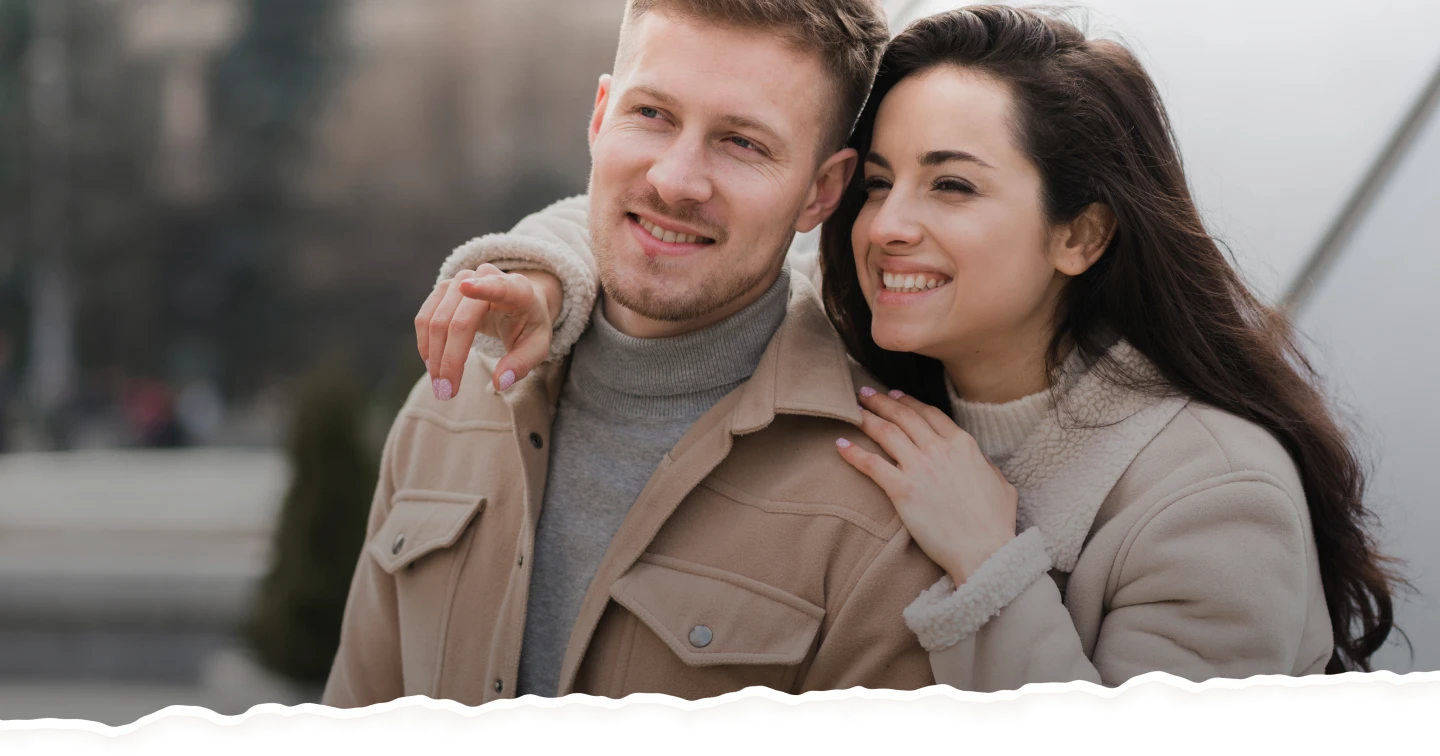
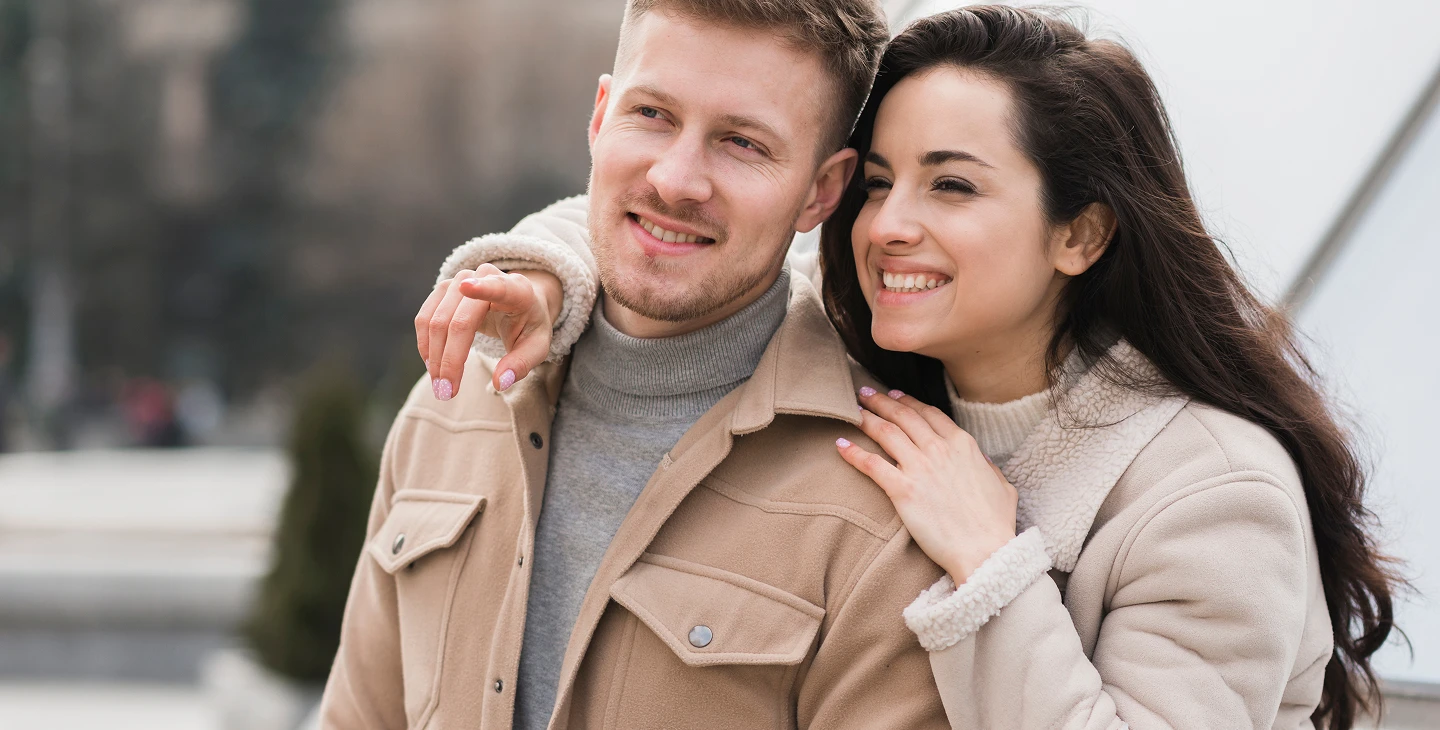
Add files via upload

diff --git a/css/style.css b/css/style.css
@@ -196,12 +196,53 @@ html {
   color: rgba(255,255,255,.8);
 }
 
+.hero__decor {
+  position: absolute;
+  width: 100%;
+  height: 100%;
+  bottom: -0.75rem;
+  left: 0;
+  z-index: -1;
+}
+
+.hero__decor img {
+  position: absolute;
+  width: 100%;
+  height: 100%;
+  top: 0;
+  left: 0;
+  -o-object-fit: cover;
+     object-fit: cover;
+  -o-object-position: bottom;
+     object-position: bottom;
+}
+
 .hero__image {
   position: absolute;
   width: 100%;
   height: 100%;
   top: 0;
   left: 0;
+  -webkit-mask-repeat: no-repeat;
+          mask-repeat: no-repeat;
+  -webkit-mask-image: url("../img/hero-mask.webp");
+          mask-image: url("../img/hero-mask.webp");
+  -webkit-mask-size: cover;
+          mask-size: cover;
+  -webkit-mask-position: bottom;
+          mask-position: bottom;
+}
+
+.hero__image::after {
+  content: "";
+  position: absolute;
+  width: 100%;
+  height: 100%;
+  top: 0;
+  left: 0;
+  pointer-events: none;
+  background: -webkit-gradient(linear, left top, left bottom, from(rgba(0, 0, 0, 0)), to(rgba(0, 0, 0, 0.4)));
+  background: linear-gradient(180deg, rgba(0, 0, 0, 0) 0%, rgba(0, 0, 0, 0.4) 100%);
 }
 
 .hero__image img,
@@ -623,6 +664,12 @@ html {
 .dress-code__image {
   position: relative;
   aspect-ratio: 247/120;
+  -webkit-mask-image: url("../img/color-mask.webp");
+          mask-image: url("../img/color-mask.webp");
+  -webkit-mask-size: 100% 100%;
+          mask-size: 100% 100%;
+  -webkit-mask-repeat: no-repeat;
+          mask-repeat: no-repeat;
 }
 
 .dress-code__image img {
@@ -1104,11 +1151,10 @@ html {
 }
 
 .contacts__items {
-  -ms-flex-item-align: start;
-      -ms-grid-row-align: start;
-      align-self: start;
   display: -ms-grid;
   display: grid;
+  -ms-grid-row-align: start;
+      align-self: start;
   gap: 0.9375rem;
   max-width: 31.625rem;
 }
@@ -1245,17 +1291,17 @@ html {
   z-index: 2;
   padding-top: 6.25rem;
   padding-bottom: 2.5rem;
-  margin-top: 6.25rem;
-   display: -webkit-box;
+  margin-top: 5rem;
+  display: -webkit-box;
   display: -ms-flexbox;
-display: flex;
--webkit-box-orient: vertical;
-    -webkit-box-direction: normal;
-        -ms-flex-direction: column;
-flex-direction: column;
--webkit-box-pack: end;
+  display: flex;
+  -webkit-box-orient: vertical;
+  -webkit-box-direction: normal;
+      -ms-flex-direction: column;
+          flex-direction: column;
+  -webkit-box-pack: end;
       -ms-flex-pack: end;
-justify-content: flex-end;
+          justify-content: flex-end;
 }
 
 .thanks__container {
@@ -1360,12 +1406,41 @@ justify-content: flex-end;
   color: rgba(255,255,255,.8);
 }
 
+.thanks__decor {
+  position: absolute;
+  width: 100%;
+  height: 100%;
+  top: -0.75rem;
+  left: 0;
+  z-index: -1;
+}
+
+.thanks__decor img {
+  position: absolute;
+  width: 100%;
+  height: 100%;
+  top: 0;
+  left: 0;
+  -o-object-fit: cover;
+     object-fit: cover;
+  -o-object-position: top;
+     object-position: top;
+}
+
 .thanks__image {
   position: absolute;
   width: 100%;
   height: 100%;
   top: 0;
   left: 0;
+  -webkit-mask-repeat: no-repeat;
+          mask-repeat: no-repeat;
+  -webkit-mask-image: url("../img/thanks-mask.webp");
+          mask-image: url("../img/thanks-mask.webp");
+  -webkit-mask-size: cover;
+          mask-size: cover;
+  -webkit-mask-position: top;
+          mask-position: top;
 }
 
 .thanks__image img {
@@ -1547,7 +1622,7 @@ justify-content: flex-end;
 
   .hero {
     aspect-ratio: 1200/1000;
-    padding-bottom: 10vw;
+    padding-bottom: 11vw;
   }
 
   .hero__title {
@@ -1879,7 +1954,7 @@ justify-content: flex-end;
 
   .hero {
     aspect-ratio: 360/400;
-    padding-bottom: 18vw;
+    padding-bottom: 14vw;
   }
 
   .hero__button {
@@ -1896,7 +1971,7 @@ justify-content: flex-end;
   }
 
   .about {
-    padding-top: 4.375rem;
+    padding-top: 2.5rem;
   }
 
   .storty {
@@ -2178,7 +2253,7 @@ justify-content: flex-end;
   .thanks {
     aspect-ratio: 360/450;
     padding-bottom: 3.125rem;
-    margin-top: 3.75rem;
+    margin-top: 3.125rem;
   }
 
   .thanks__title {
@@ -2203,6 +2278,11 @@ justify-content: flex-end;
     font-size: 0.9375rem;
   }
 
+  .thanks__image {
+    -webkit-mask-image: url("../img/thanks-mask.webp");
+            mask-image: url("../img/thanks-mask.webp");
+  }
+
   .checkbox__text {
     font-size: 0.9375rem;
   }
@@ -2214,8 +2294,8 @@ justify-content: flex-end;
 
 @media (max-width: 29.99875rem) {
   .hero {
-    padding-bottom: 25vw;
-    aspect-ratio: 360/711;
+    aspect-ratio: 360/700;
+    padding-bottom: 24vw;
   }
 
   .hero__title {

diff --git a/preview.html b/preview.html
@@ -10,20 +10,15 @@
 	<link rel="stylesheet" href="css/style.css">
 </head>
 
-<body style="margin: 0; padding: 0;">
-	<div style="padding-bottom: 15px; padding-left: 10px;padding-right: 10px;position: relative; display: flex; flex-direction: column;justify-content: flex-end;align-items: center; overflow: hidden; width: 100vw; height: 100vh; box-sizing: border-box; margin: 0 auto;" class="preview">
-		<button type="button" style="position: absolute; z-index: 2; top: 10px;right: 10px;border: 0; width: 32px; height: 32px; display: inline-flex; align-items: center; justify-content: center; background-color: #fff;" class="preview__button">
-			<svg width="18" height="13" viewBox="0 0 20 15" fill="none" xmlns="http://www.w3.org/2000/svg">
-				<path d="M7.84091 3.05444L4.8814 5.37111H1.74242V8.70444H4.8814L7.84091 11.0211V3.05444ZM4.25935 10.3711H0.871212C0.640152 10.3711 0.418556 10.2833 0.255172 10.127C0.0917881 9.97075 0 9.75879 0 9.53778V4.53778C0 4.31676 0.0917881 4.1048 0.255172 3.94852C0.418556 3.79224 0.640152 3.70444 0.871212 3.70444H4.25935L8.87155 0.0944448C8.93537 0.0444008 9.01273 0.0127253 9.09464 0.00310588C9.17655 -0.00651352 9.25962 0.00631897 9.3342 0.0401094C9.40878 0.0738999 9.47179 0.127258 9.51589 0.193972C9.56 0.260686 9.58339 0.338011 9.58333 0.416945V13.6586C9.58339 13.7375 9.56 13.8149 9.51589 13.8816C9.47179 13.9483 9.40878 14.0017 9.3342 14.0354C9.25962 14.0692 9.17655 14.0821 9.09464 14.0724C9.01273 14.0628 8.93537 14.0312 8.87155 13.9811L4.26023 10.3711H4.25935ZM16.0355 13.8161L14.8019 12.6361C15.6278 11.9332 16.2885 11.0708 16.7405 10.1059C17.1925 9.14087 17.4256 8.09519 17.4242 7.03778C17.4253 5.92619 17.1675 4.82832 16.6696 3.82392C16.1717 2.81952 15.4462 1.93381 14.5458 1.23111L15.7829 0.0477782C16.8444 0.9074 17.6971 1.97818 18.2816 3.18544C18.866 4.3927 19.168 5.70738 19.1667 7.03778C19.1667 9.72361 17.9592 12.1394 16.0355 13.8161ZM12.9488 10.8636L11.71 9.67861C12.1329 9.36753 12.4754 8.96756 12.7109 8.50964C12.9464 8.05172 13.0687 7.54811 13.0682 7.03778C13.0682 5.84611 12.4148 4.80028 11.4303 4.21111L12.684 3.01194C13.3439 3.47627 13.8802 4.08265 14.2497 4.78204C14.6191 5.48143 14.8113 6.25418 14.8106 7.03778C14.8106 8.57278 14.0875 9.94611 12.9488 10.8636Z" fill="#0D0D0C" />
-			</svg>
-		</button>
-		<h1 style="position: relative;z-index: 2;font-family: mak;font-weight: 300;font-size: 40px;line-height: 104%;letter-spacing: -0.01em;color: #fff; text-align: center; margin: 0;">Мария & Дмитрий</h1>
-		<div style="display: flex; align-items: center;gap: 5px; position: relative;z-index: 2;width: 100%;margin-top: 15px;">
-			<div style="font-family: inter;font-size: 15px;color: rgba(255, 255, 255, 0.8);">4 октября</div>
+<body style="margin: 0; padding: 0; background-color: #f0efeb;">
+	<div style="padding-bottom: 10px; padding-left: 30px;padding-right: 30px; padding-bottom: 50px; position: relative; display: flex; flex-direction: column;justify-content: flex-end;align-items: center; overflow: hidden; width: 250px; height: 350px; box-sizing: border-box; margin: 0 auto;" class="preview">
+		<h1 style="position: relative;z-index: 2;font-family: mak;font-weight: 300;font-size: 29px;line-height: 104%;letter-spacing: -0.01em;color: #fff; text-align: center; margin: 0;">Мария & Дмитрий</h1>
+		<div style="display: flex; align-items: center;gap: 10px; position: relative;z-index: 2;width: 100%;margin-top: 10px;">
+			<div style="font-family: inter;font-size: 9px;color: rgba(255, 255, 255, 0.8);">4 октября</div>
 			<div style="height: 1px; flex-grow: 1;background-color: rgba(255, 255, 255, 0.4);"></div>
-			<div style="font-family: inter;font-size: 15px;color: rgba(255, 255, 255, 0.8);">2025</div>
+			<div style="font-family: inter;font-size: 9px;color: rgba(255, 255, 255, 0.8);">2025</div>
 		</div>
-		<img style="position: absolute;width: 100%;height: 100%;top: 0;left: 0; object-fit: cover; object-position: center -30px;" src="img/hero-mobile.webp" alt="Мария и Дмитрий">
+		<img style="position: absolute;width: 100%;height: 100%;top: 0;left: 0; object-fit: cover; object-position: center" src="img/preview-image.webp" alt="Мария и Дмитрий">
 	</div>
 
 </body>

diff --git a/index.html b/index.html
@@ -42,6 +42,9 @@
 					</picture>
 					<!-- <video src="files/Video.mp4" loop autoplay muted playsinline></video> -->
 				</div>
+				<div class="hero__decor">
+					<img src="img/hero-mask.webp" alt="фон">
+				</div>
 			</section>
 			<section class="about">
 				<div class="about__container">
@@ -485,6 +488,9 @@
 						<source srcset="img/thanks-mobile.webp" media="(max-width: 480px)">
 						<img src="img/thanks-image.webp" alt="Мария и Дмитрий">
 					</picture>
+				</div>
+				<div class="thanks__decor">
+					<img src="img/thanks-mask.webp" alt="фон">
 				</div>
 			</section>
 		</main>
